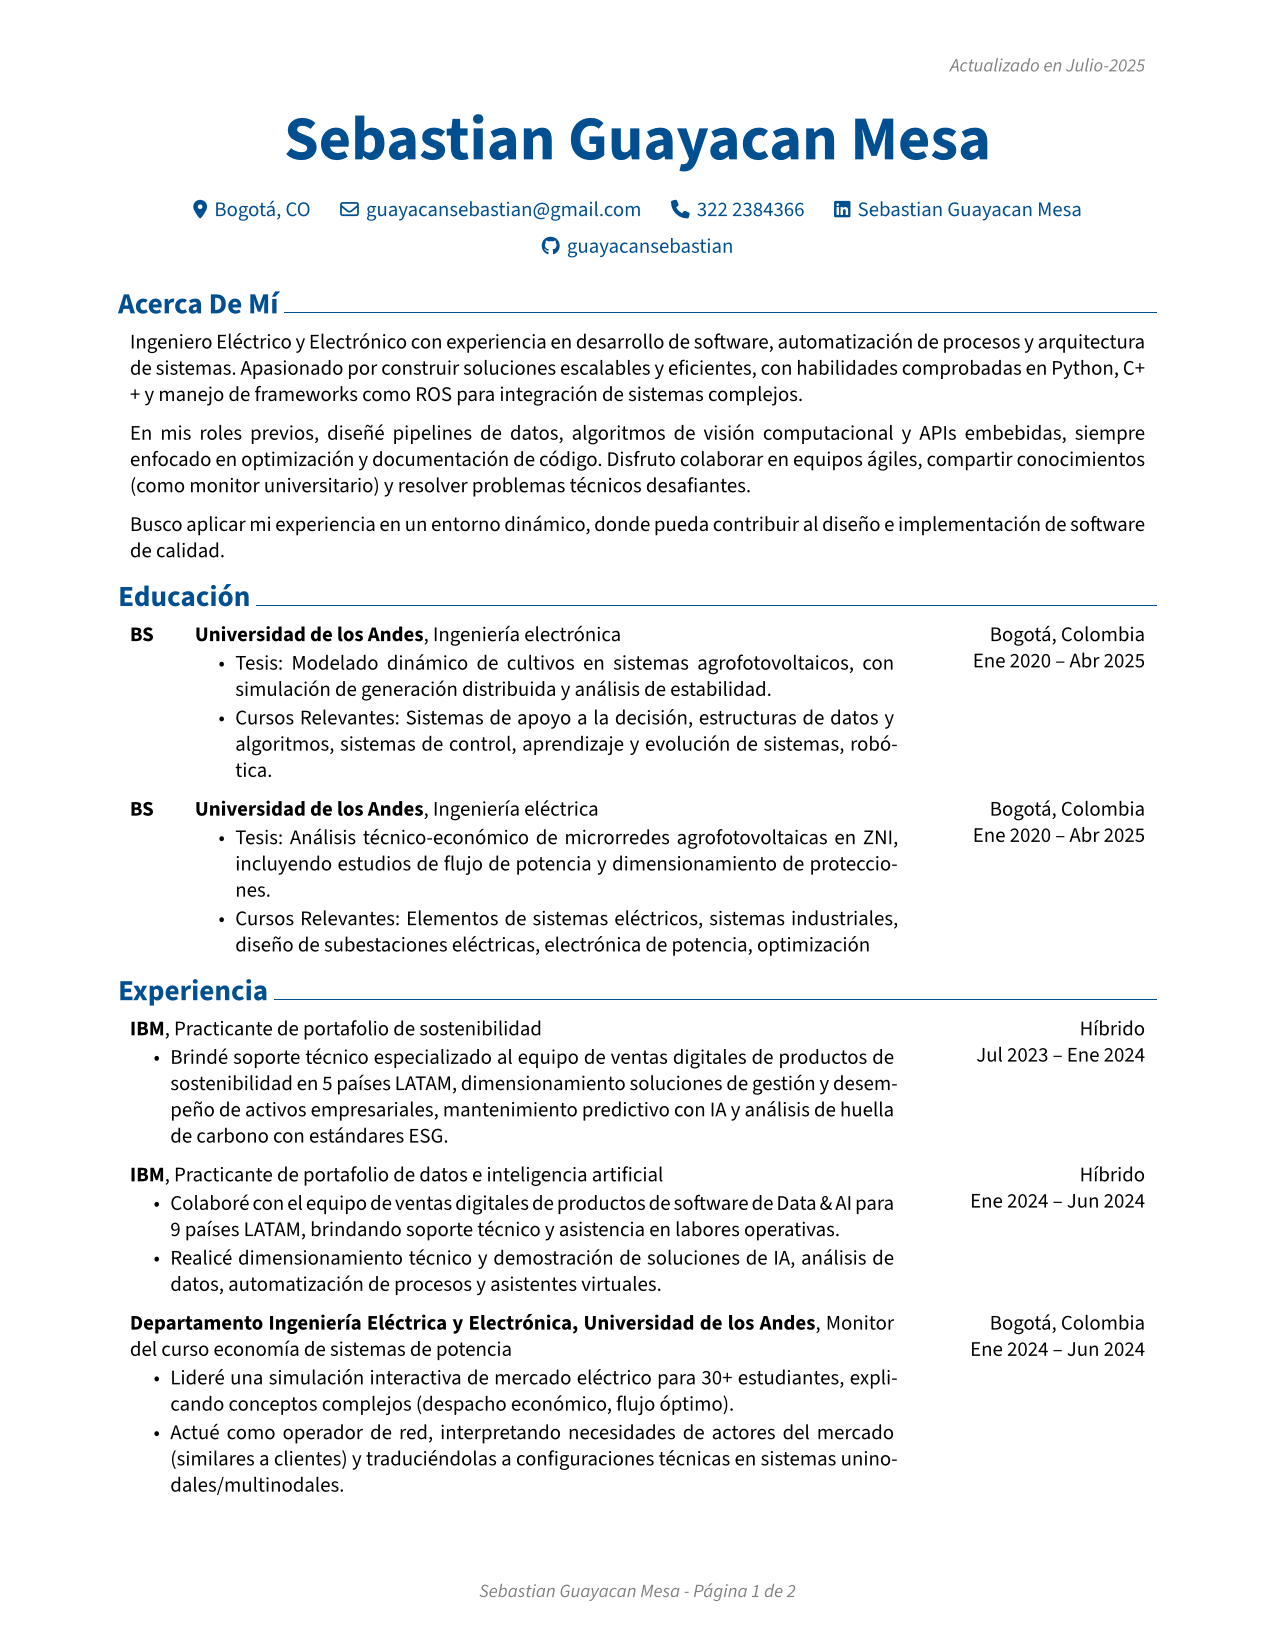
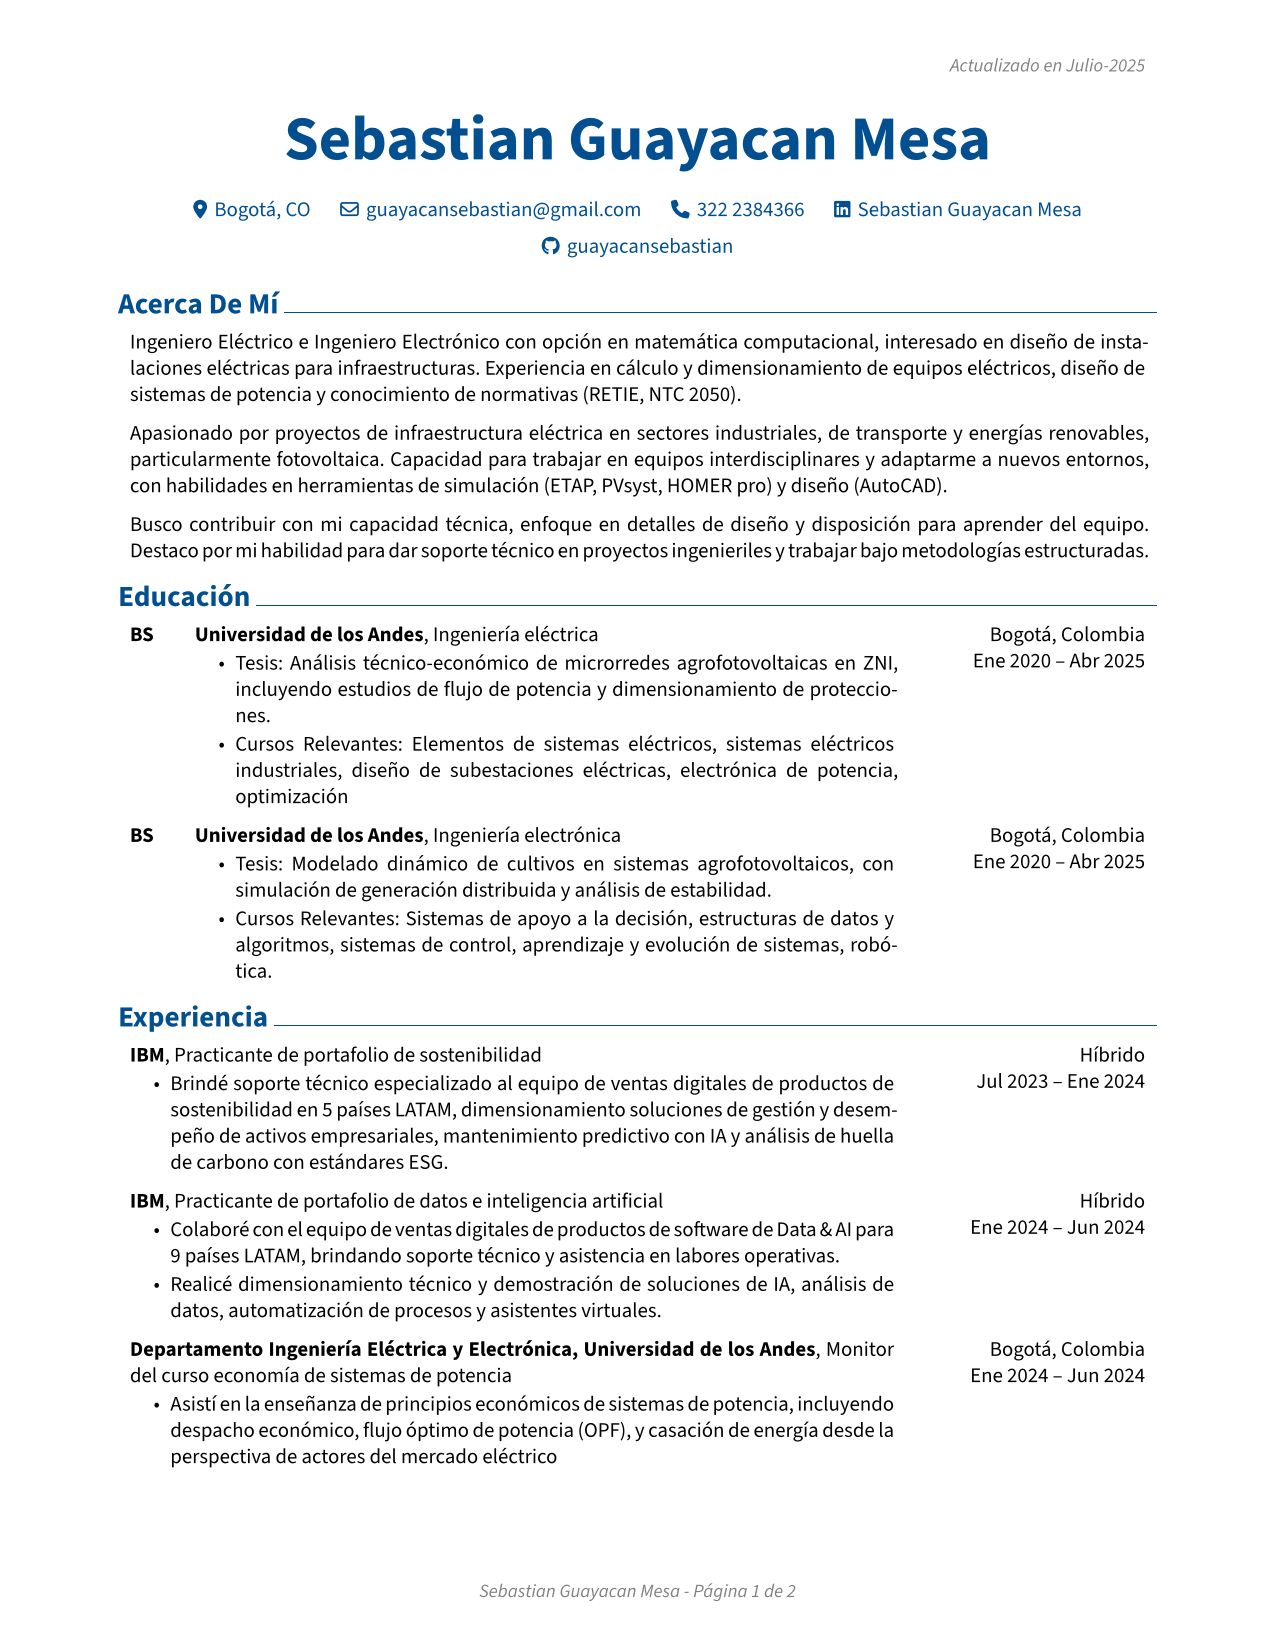
Saitec, enel

diff --git a/rendercv_output/Sebastian_Guayacan_Mesa_CV.html b/rendercv_output/Sebastian_Guayacan_Mesa_CV.html
@@ -48,23 +48,23 @@
         <li>GitHub: <a href="https://github.com/guayacansebastian">guayacansebastian</a></li>
         </ul>
         <h1>Acerca De Mí</h1>
-        <p>Ingeniero Eléctrico y Electrónico con experiencia en desarrollo de software, automatización de procesos y arquitectura de sistemas. Apasionado por construir soluciones escalables y eficientes, con habilidades comprobadas en Python, C++ y manejo de frameworks como ROS para integración de sistemas complejos.</p>
-        <p>En mis roles previos, diseñé pipelines de datos, algoritmos de visión computacional y APIs embebidas, siempre enfocado en optimización y documentación de código. Disfruto colaborar en equipos ágiles, compartir conocimientos (como monitor universitario) y resolver problemas técnicos desafiantes.</p>
-        <p>Busco aplicar mi experiencia en un entorno dinámico, donde pueda contribuir al diseño e implementación de software de calidad.</p>
+        <p>Ingeniero Eléctrico e Ingeniero Electrónico con opción en matemática computacional, interesado en diseño de instalaciones eléctricas para infraestructuras. Experiencia en cálculo y dimensionamiento de equipos eléctricos, diseño de sistemas de potencia y conocimiento  de normativas (RETIE, NTC 2050).</p>
+        <p>Apasionado por proyectos de infraestructura eléctrica en sectores industriales, de transporte y energías renovables, particularmente fotovoltaica. Capacidad para trabajar en equipos interdisciplinares y adaptarme a nuevos entornos, con habilidades en herramientas de simulación (ETAP, PVsyst, HOMER pro) y diseño (AutoCAD).</p>
+        <p>Busco contribuir con mi capacidad técnica, enfoque en detalles de diseño y disposición para aprender del equipo. Destaco por mi habilidad para dar soporte técnico en proyectos ingenieriles y trabajar bajo metodologías estructuradas.</p>
         <h1>Educación</h1>
+        <h2>Universidad de los Andes, BS in Ingeniería eléctrica</h2>
+        <ul>
+        <li>Ene 2020 – Abr 2025</li>
+        <li>Bogotá, Colombia</li>
+        <li>Tesis: Análisis técnico-económico de microrredes agrofotovoltaicas en ZNI, incluyendo estudios de flujo de potencia y dimensionamiento de protecciones.</li>
+        <li>Cursos Relevantes: Elementos de sistemas eléctricos, sistemas  eléctricos industriales, diseño de subestaciones eléctricas, electrónica de potencia, optimización </li>
+        </ul>
         <h2>Universidad de los Andes, BS in Ingeniería electrónica</h2>
         <ul>
         <li>Ene 2020 – Abr 2025</li>
         <li>Bogotá, Colombia</li>
         <li>Tesis: Modelado dinámico de cultivos en sistemas agrofotovoltaicos, con simulación de generación distribuida y análisis de estabilidad.</li>
         <li>Cursos Relevantes: Sistemas de apoyo a la decisión, estructuras de datos y algoritmos, sistemas de control, aprendizaje y evolución de sistemas, robótica.</li>
-        </ul>
-        <h2>Universidad de los Andes, BS in Ingeniería eléctrica</h2>
-        <ul>
-        <li>Ene 2020 – Abr 2025</li>
-        <li>Bogotá, Colombia</li>
-        <li>Tesis: Análisis técnico-económico de microrredes agrofotovoltaicas en ZNI, incluyendo estudios de flujo de potencia y dimensionamiento de protecciones.</li>
-        <li>Cursos Relevantes: Elementos de sistemas eléctricos, sistemas industriales, diseño de subestaciones eléctricas, electrónica de potencia, optimización </li>
         </ul>
         <h1>Experiencia</h1>
         <h2>IBM, Practicante de portafolio de sostenibilidad</h2>
@@ -84,14 +84,15 @@
         <ul>
         <li>Ene 2024 – Jun 2024</li>
         <li>Bogotá, Colombia</li>
-        <li>Lideré una simulación interactiva de mercado eléctrico para 30+ estudiantes, explicando conceptos complejos (despacho económico, flujo óptimo).</li>
-        <li>Actué como operador de red, interpretando necesidades de actores del mercado (similares a clientes) y traduciéndolas a configuraciones técnicas en sistemas uninodales/multinodales.</li>
+        <li>Asistí en la enseñanza de principios económicos de sistemas de potencia, incluyendo despacho económico, flujo óptimo de potencia (OPF), y casación de energía desde la perspectiva de actores del mercado eléctrico</li>
+        <li>Organicé y dirigí una simulación interactiva de mercado eléctrico, actuando como operador de red para gestionar ofertas de energía en sistemas uninodales y multinodales, ejecutar despacho económico y OPF</li>
         </ul>
-        <h2>Departamento Ingeniería de Sistemas, Universidad de los Andes, Monitor del curso Introducción a la programación</h2>
+        <h2>Departamento Ingeniería Eléctrica y Electrónica, Universidad de los Andes, Monitor del curso electrónica de potencia</h2>
         <ul>
-        <li>Ene 2023 – Jun 2023</li>
+        <li>Jul 2024 – Dic 2024</li>
         <li>Bogotá, Colombia</li>
-        <li>Asistí en la enseñanza de fundamentos de programación a 20+ estudiantes fomentando buenas prácticas de programación y resolviendo dudas en proyectos de programaci+on y manejo de datos.</li>
+        <li>Asistí en la enseñanza de principios de semiconductores, elementos de sistemas eléctricos y diseño de conversores (AC/DC, DC/DC, DC/AC).</li>
+        <li>Ayudé a implementar proyectos de simulación en tiempo real (HIL) para rectificadores, transformadores tridevanados y control digital con modulación SPWM.</li>
         </ul>
         <h2>HERON Agrodrones - Independiente, Desarrollador e integrador de sistemas</h2>
         <ul>
@@ -104,19 +105,19 @@
         <h1>Proyectos</h1>
         <h2>Robocol</h2>
         <ul>
-        <li>Programé algoritmos de comunicación para el rover marciano, usando Python y C++ en distribuciones UNIX para procesar datos de sensores y enviar comandos a actuadores.</li>
-        <li>Apliqué frameworks de visión computacional y algoritmos de navegación autónoma para el cumplimiento de tareas integradas por medio del framework ROS.</li>
-        <li>Participé en competencias internacionales de robótica y Hackatones, resolviendo problemas técnicos (robótica, visión computacional, LLM) bajo presión.</li>
+        <li>Lideré el diseño eléctrico para un rover marciano: Diseño de planos del sistema eléctrico y de potencia, diseño de sistema de comunicaciones y programación de algoritmos.</li>
+        <li>Participé en competencias nacionales e internacionales de programación y robótica, desarrollando habilidades de trabajo en equipo y resolución de problemas en contextos técnicos exigentes.</li>
+        <li>Programé algoritmos de navegación, reconocimiento de imágenes y lógica de operación, aplicando metodologías de optimización para el desempeño del sistema.</li>
         </ul>
         <h2>Sistemas Embebidos &amp; Automatización</h2>
         <ul>
-        <li>Integré electrónica, software y mecánica en dispositivos automatizados, usando Python y C++ para lógica de control,  por medio de comunicación serial y protocolos I2C.</li>
-        <li>Elaboré manuales de integración y estándares de código (Git), enfocados en replicabilidad y escalabilidad .</li>
+        <li>Diseñé el sistema electrónico de una electrodomésticos IoT, incluyendo planos eléctricos elaborados en y modelado CAD de la estructura mecánica.</li>
+        <li>Trabajé de manera colaborativa en la integración de electrónica, mecánica y control, aplicando principios de documentación técnica, manufactura y optimización del diseño.</li>
         </ul>
         <h1>Habilidades</h1>
         <ul>
         <li>Lenguajes de Programación: Python, C++, Visual Basic, MATLAB</li>
-        <li>Herramientas: Excel, Git, ROS, Simulink, Typhoon HIL, PVsyst, HOMER Pro, QGIS</li>
+        <li>Herramientas: Excel, PVsyst, ETAP, HOMER Pro, Simulink, Git, Typhoon HIL, AutoCAD, Fusion360, QGIS</li>
         <li>Idiomas: Inglés (Avanzado C1), Español (Nativo)</li>
         </ul>
     </article>

diff --git a/rendercv_output/Sebastian_Guayacan_Mesa_CV.md b/rendercv_output/Sebastian_Guayacan_Mesa_CV.md
@@ -9,13 +9,20 @@
 
 # Acerca De Mí
 
-Ingeniero Eléctrico y Electrónico con experiencia en desarrollo de software, automatización de procesos y arquitectura de sistemas. Apasionado por construir soluciones escalables y eficientes, con habilidades comprobadas en Python, C++ y manejo de frameworks como ROS para integración de sistemas complejos.
+Ingeniero Eléctrico e Ingeniero Electrónico con opción en matemática computacional, interesado en diseño de instalaciones eléctricas para infraestructuras. Experiencia en cálculo y dimensionamiento de equipos eléctricos, diseño de sistemas de potencia y conocimiento  de normativas (RETIE, NTC 2050).
 
-En mis roles previos, diseñé pipelines de datos, algoritmos de visión computacional y APIs embebidas, siempre enfocado en optimización y documentación de código. Disfruto colaborar en equipos ágiles, compartir conocimientos (como monitor universitario) y resolver problemas técnicos desafiantes.
+Apasionado por proyectos de infraestructura eléctrica en sectores industriales, de transporte y energías renovables, particularmente fotovoltaica. Capacidad para trabajar en equipos interdisciplinares y adaptarme a nuevos entornos, con habilidades en herramientas de simulación (ETAP, PVsyst, HOMER pro) y diseño (AutoCAD).
 
-Busco aplicar mi experiencia en un entorno dinámico, donde pueda contribuir al diseño e implementación de software de calidad.
+Busco contribuir con mi capacidad técnica, enfoque en detalles de diseño y disposición para aprender del equipo. Destaco por mi habilidad para dar soporte técnico en proyectos ingenieriles y trabajar bajo metodologías estructuradas.
 
 # Educación
+
+## Universidad de los Andes, BS in Ingeniería eléctrica
+
+- Ene 2020 – Abr 2025
+- Bogotá, Colombia
+- Tesis: Análisis técnico-económico de microrredes agrofotovoltaicas en ZNI, incluyendo estudios de flujo de potencia y dimensionamiento de protecciones.
+- Cursos Relevantes: Elementos de sistemas eléctricos, sistemas  eléctricos industriales, diseño de subestaciones eléctricas, electrónica de potencia, optimización 
 
 ## Universidad de los Andes, BS in Ingeniería electrónica
 
@@ -23,13 +30,6 @@ Busco aplicar mi experiencia en un entorno dinámico, donde pueda contribuir al 
 - Bogotá, Colombia
 - Tesis: Modelado dinámico de cultivos en sistemas agrofotovoltaicos, con simulación de generación distribuida y análisis de estabilidad.
 - Cursos Relevantes: Sistemas de apoyo a la decisión, estructuras de datos y algoritmos, sistemas de control, aprendizaje y evolución de sistemas, robótica.
-
-## Universidad de los Andes, BS in Ingeniería eléctrica
-
-- Ene 2020 – Abr 2025
-- Bogotá, Colombia
-- Tesis: Análisis técnico-económico de microrredes agrofotovoltaicas en ZNI, incluyendo estudios de flujo de potencia y dimensionamiento de protecciones.
-- Cursos Relevantes: Elementos de sistemas eléctricos, sistemas industriales, diseño de subestaciones eléctricas, electrónica de potencia, optimización 
 
 # Experiencia
 
@@ -50,14 +50,15 @@ Busco aplicar mi experiencia en un entorno dinámico, donde pueda contribuir al 
 
 - Ene 2024 – Jun 2024
 - Bogotá, Colombia
-- Lideré una simulación interactiva de mercado eléctrico para 30+ estudiantes, explicando conceptos complejos (despacho económico, flujo óptimo).
-- Actué como operador de red, interpretando necesidades de actores del mercado (similares a clientes) y traduciéndolas a configuraciones técnicas en sistemas uninodales/multinodales.
+- Asistí en la enseñanza de principios económicos de sistemas de potencia, incluyendo despacho económico, flujo óptimo de potencia (OPF), y casación de energía desde la perspectiva de actores del mercado eléctrico
+- Organicé y dirigí una simulación interactiva de mercado eléctrico, actuando como operador de red para gestionar ofertas de energía en sistemas uninodales y multinodales, ejecutar despacho económico y OPF
 
-## Departamento Ingeniería de Sistemas, Universidad de los Andes, Monitor del curso Introducción a la programación
+## Departamento Ingeniería Eléctrica y Electrónica, Universidad de los Andes, Monitor del curso electrónica de potencia
 
-- Ene 2023 – Jun 2023
+- Jul 2024 – Dic 2024
 - Bogotá, Colombia
-- Asistí en la enseñanza de fundamentos de programación a 20+ estudiantes fomentando buenas prácticas de programación y resolviendo dudas en proyectos de programaci+on y manejo de datos.
+- Asistí en la enseñanza de principios de semiconductores, elementos de sistemas eléctricos y diseño de conversores (AC/DC, DC/DC, DC/AC).
+- Ayudé a implementar proyectos de simulación en tiempo real (HIL) para rectificadores, transformadores tridevanados y control digital con modulación SPWM.
 
 ## HERON Agrodrones - Independiente, Desarrollador e integrador de sistemas
 
@@ -71,17 +72,17 @@ Busco aplicar mi experiencia en un entorno dinámico, donde pueda contribuir al 
 
 ## Robocol
 
-- Programé algoritmos de comunicación para el rover marciano, usando Python y C++ en distribuciones UNIX para procesar datos de sensores y enviar comandos a actuadores.
-- Apliqué frameworks de visión computacional y algoritmos de navegación autónoma para el cumplimiento de tareas integradas por medio del framework ROS.
-- Participé en competencias internacionales de robótica y Hackatones, resolviendo problemas técnicos (robótica, visión computacional, LLM) bajo presión.
+- Lideré el diseño eléctrico para un rover marciano: Diseño de planos del sistema eléctrico y de potencia, diseño de sistema de comunicaciones y programación de algoritmos.
+- Participé en competencias nacionales e internacionales de programación y robótica, desarrollando habilidades de trabajo en equipo y resolución de problemas en contextos técnicos exigentes.
+- Programé algoritmos de navegación, reconocimiento de imágenes y lógica de operación, aplicando metodologías de optimización para el desempeño del sistema.
 
 ## Sistemas Embebidos & Automatización
 
-- Integré electrónica, software y mecánica en dispositivos automatizados, usando Python y C++ para lógica de control,  por medio de comunicación serial y protocolos I2C.
-- Elaboré manuales de integración y estándares de código (Git), enfocados en replicabilidad y escalabilidad .
+- Diseñé el sistema electrónico de una electrodomésticos IoT, incluyendo planos eléctricos elaborados en y modelado CAD de la estructura mecánica.
+- Trabajé de manera colaborativa en la integración de electrónica, mecánica y control, aplicando principios de documentación técnica, manufactura y optimización del diseño.
 
 # Habilidades
 
 - Lenguajes de Programación: Python, C++, Visual Basic, MATLAB
-- Herramientas: Excel, Git, ROS, Simulink, Typhoon HIL, PVsyst, HOMER Pro, QGIS
+- Herramientas: Excel, PVsyst, ETAP, HOMER Pro, Simulink, Git, Typhoon HIL, AutoCAD, Fusion360, QGIS
 - Idiomas: Inglés (Avanzado C1), Español (Nativo)
